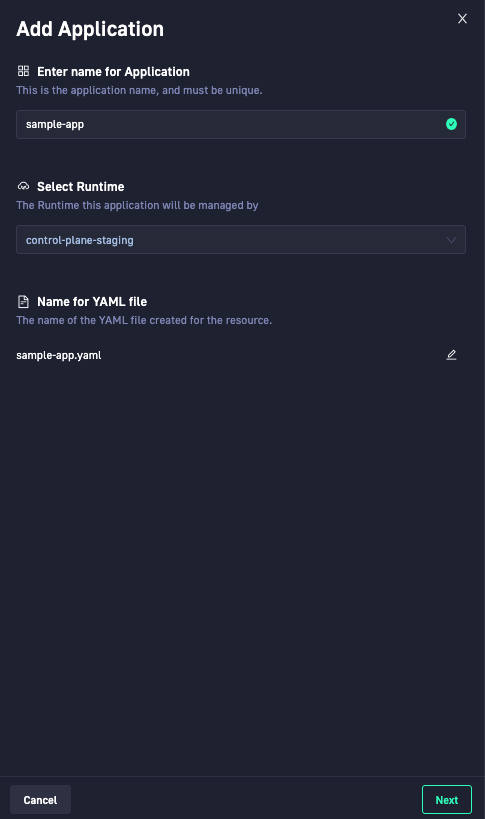
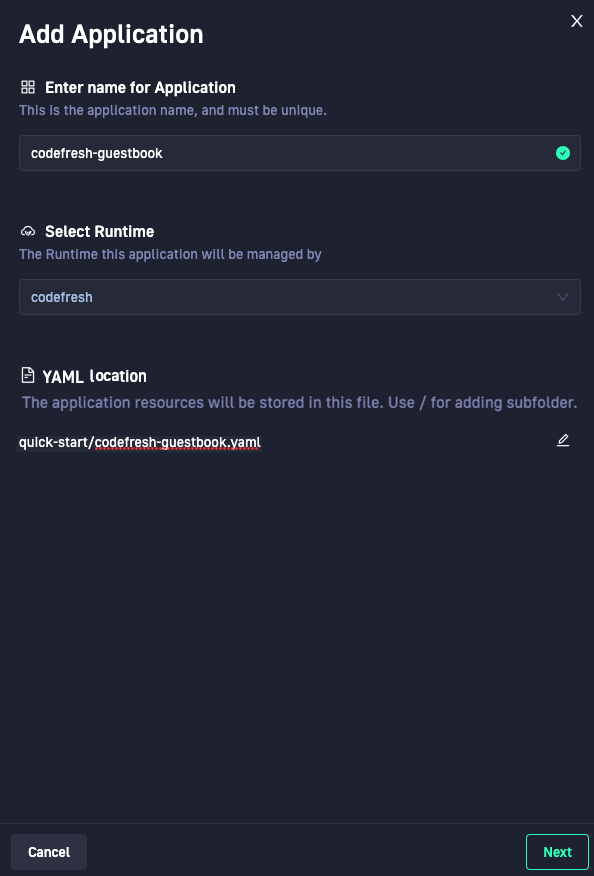
Cf app yaml location (#233)
* Update create application

Added YAML location and replaced screenshot

* Update create-application.md

diff --git a/_docs/deployment/create-application.md b/_docs/deployment/create-application.md
@@ -22,7 +22,7 @@ Codefresh provides all the options and functionality to create and manage Argo C
   To monitor the health and sync status, deployments, and resources for the application, see [Applications dashboard]({{site.baseurl}}/docs/deployment/applications-dashboard/).  
 
 ### Application: Definitions
-Application definitions include the name, runtime, and the name of the YAML manifest. By default, the YAML manifest has the same name as that of the application. 
+Application definitions include the name, runtime, and the location of the YAML manifest. By default, the YAML manifest has the same name as that of the application. You can also define where to save the YAML file within the Git Source you select for the application by adding front slashes to denote subfolders.
 
 {% include 
    image.html 
